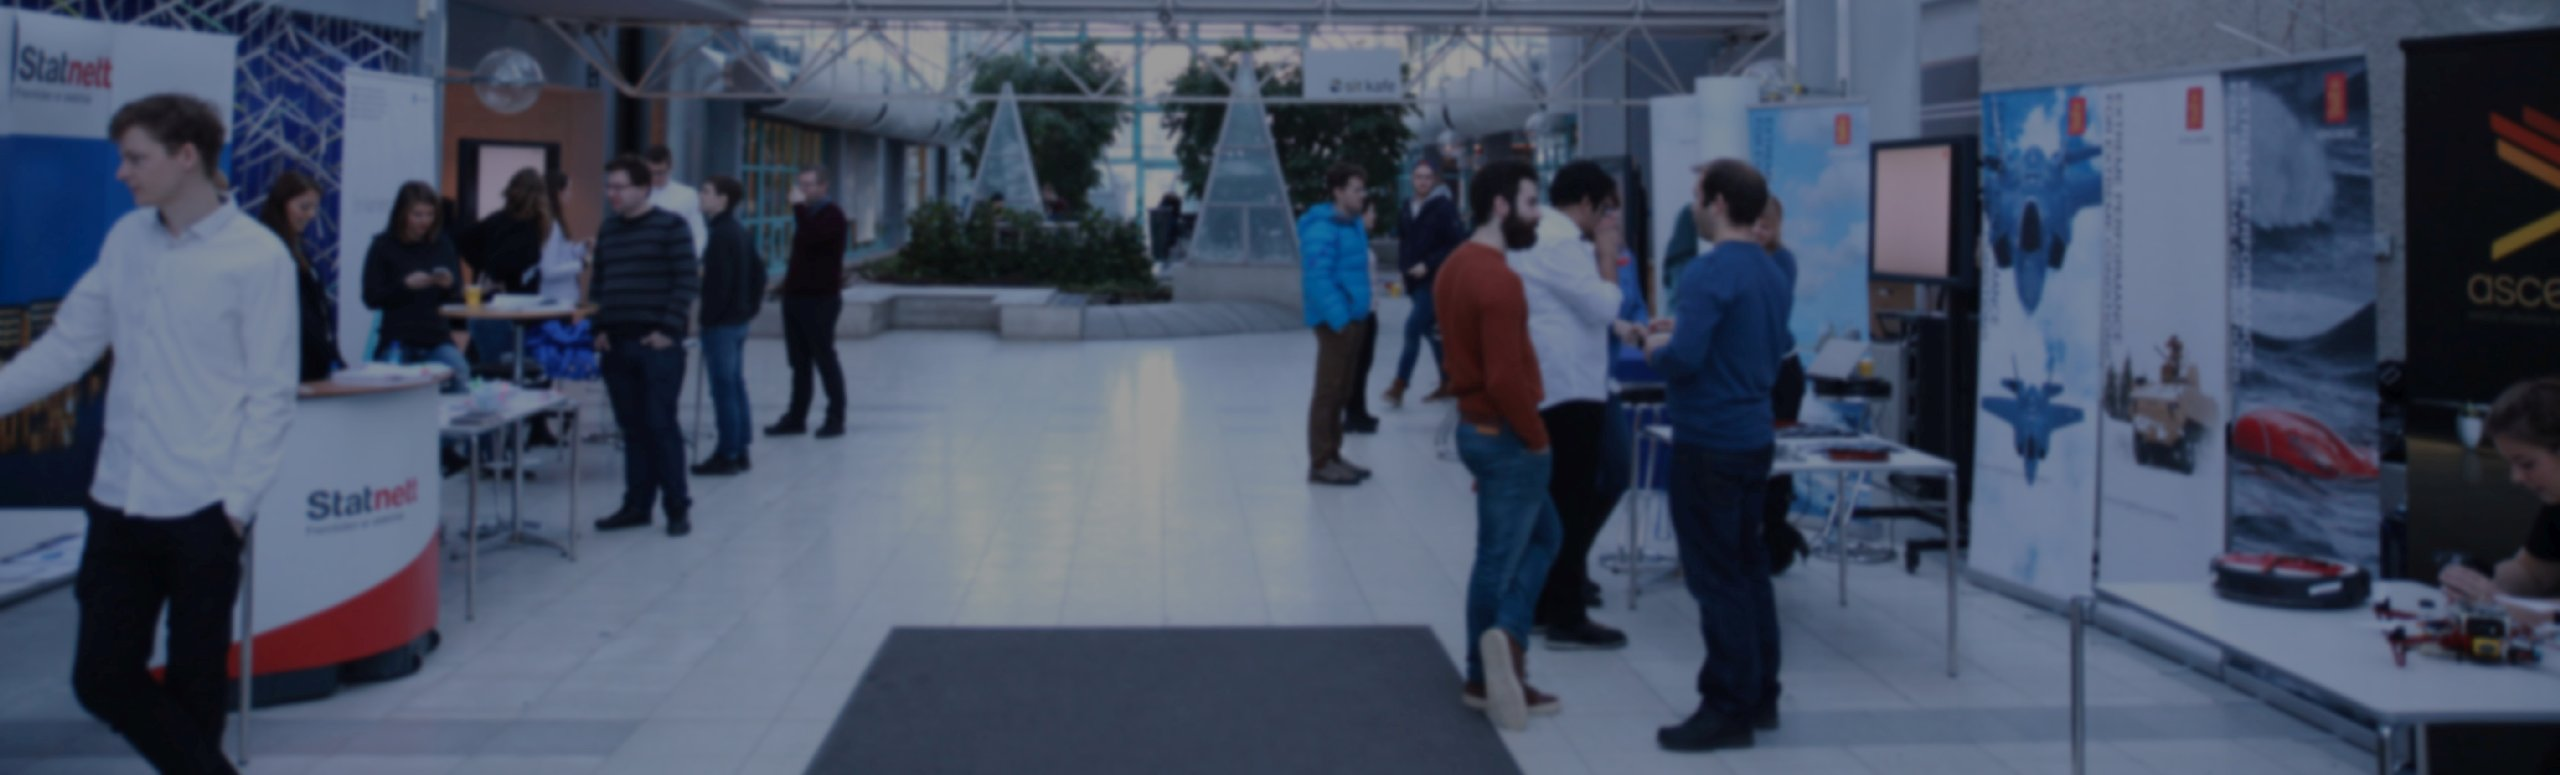
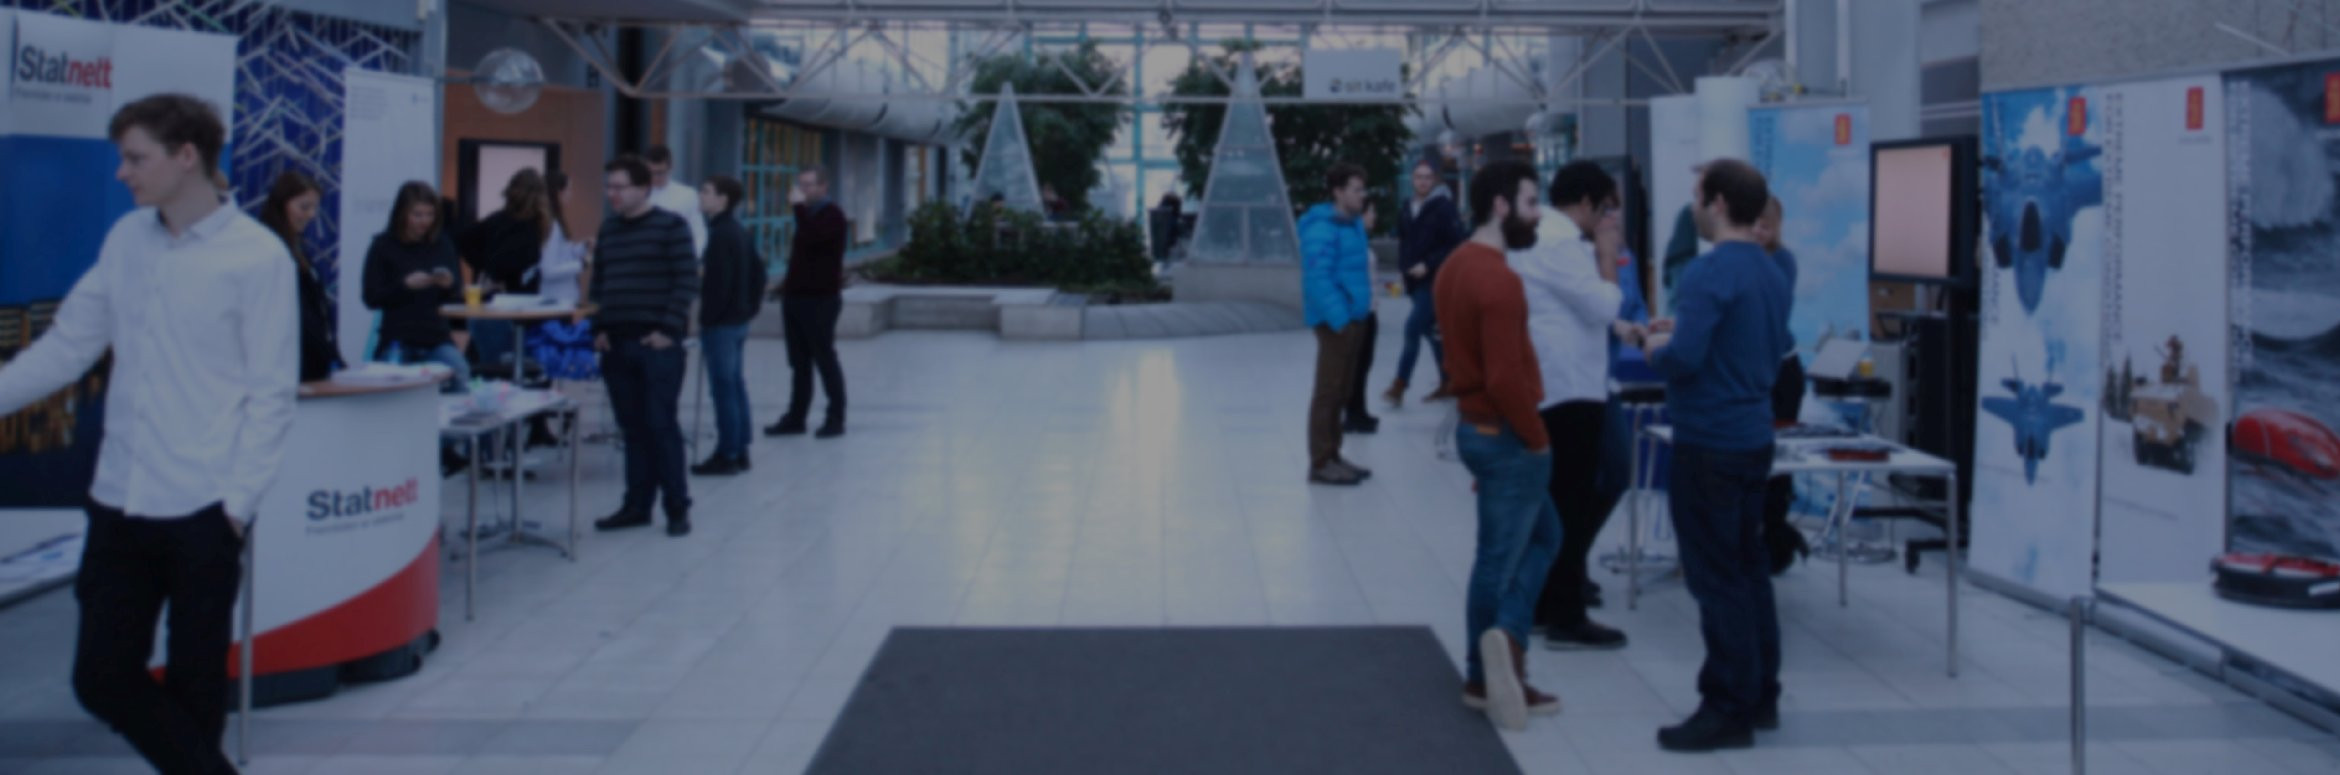
Center background image on mobile

diff --git a/frontend/src/components/anon/Hero.vue b/frontend/src/components/anon/Hero.vue
@@ -1,7 +1,6 @@
 <template>
-  <div class="hero">
+  <div class="hero" :style="{'background-image': 'url(' + require('@/assets/hero_blur.jpg') + ')'}">
     <div class="wrapper">
-      <img class="hero-img" src="@/assets/hero_blur.jpg">
       <div class="hero-content">
         <HeroText class="hero-txt"/>
         <div class="hexes">
@@ -36,6 +35,10 @@ export default {
 </script>
 
 <style lang="scss" scoped>
+  .hero {
+    background: no-repeat top;
+    background-size: auto 100%;
+  }
   .wrapper {
     width:100%;
     position:relative;
